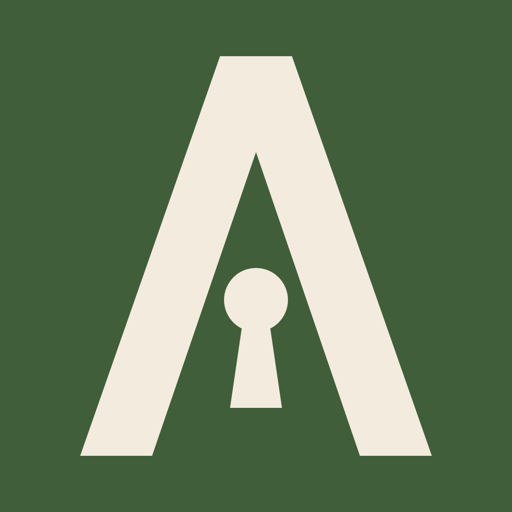
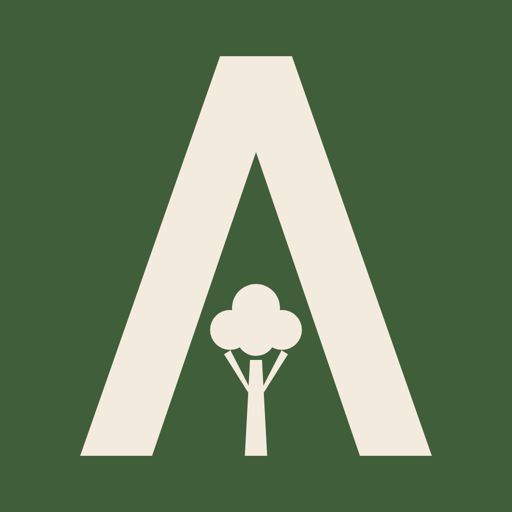
Troca a fechadura do Villa pelo plátano de Air-Bel
O A de VILLA, o monograma, o favicon e o naipe do Conhecimento passam a usar o plátano do jardim da Villa Air-Bel. O naipe Fechaduras vira Árvores. As peças do Global Village que usam o monograma foram renderizadas de novo.

Changed region(s): [[0.4062, 0.5, 0.5938, 0.9062]]

diff --git a/brand/newsletter/src/edicao.html b/brand/newsletter/src/edicao.html
@@ -28,7 +28,7 @@
 <body>
   <div class="page">
     <div class="top">
-      <span class="rotulo"><svg viewBox="-6 -6 100 112" aria-hidden="true"><polygon points="35,0 53,0 88,100 70,100 44,24 18,100 0,100"/><circle cx="44" cy="61" r="8"/><polygon points="41.0,64.2 47.0,64.2 50.5,88 37.5,88"/></svg>Global Village</span>
+      <span class="rotulo"><svg viewBox="-6 -6 100 112" aria-hidden="true"><polygon points="35,0 53,0 88,100 70,100 44,24 18,100 0,100"/><circle cx="44" cy="63" r="6"/><circle cx="37.5" cy="68.5" r="5"/><circle cx="50.5" cy="68.5" r="5"/><circle cx="44" cy="70" r="5"/><polygon points="42.5,76 45.5,76 46.8,100 41.2,100"/><polygon points="43.2,86 44.8,87.6 37.6,73.6 36,74.6"/><polygon points="44.8,86 43.2,87.6 50.4,73.6 52,74.6"/></svg>Global Village</span>
       <span class="carimbo" id="date"></span>
     </div>
     <h1 id="title"></h1>

diff --git a/brand/global-village/src/lockup.html b/brand/global-village/src/lockup.html
@@ -15,7 +15,7 @@
 </head>
 <body>
 <div class="lockup" id="l">
-  <svg viewBox="-6 -6 100 112" aria-hidden="true"><polygon points="35,0 53,0 88,100 70,100 44,24 18,100 0,100"/><circle cx="44" cy="61" r="8"/><polygon points="41.0,64.2 47.0,64.2 50.5,88 37.5,88"/></svg>
+  <svg viewBox="-6 -6 100 112" aria-hidden="true"><polygon points="35,0 53,0 88,100 70,100 44,24 18,100 0,100"/><circle cx="44" cy="63" r="6"/><circle cx="37.5" cy="68.5" r="5"/><circle cx="50.5" cy="68.5" r="5"/><circle cx="44" cy="70" r="5"/><polygon points="42.5,76 45.5,76 46.8,100 41.2,100"/><polygon points="43.2,86 44.8,87.6 37.6,73.6 36,74.6"/><polygon points="44.8,86 43.2,87.6 50.4,73.6 52,74.6"/></svg>
   <span class="name">Global Village</span>
 </div>
 <script>if (location.hash === "#light") document.getElementById("l").classList.add("light");</script>

diff --git a/brand/substack/src/secao.html b/brand/substack/src/secao.html
@@ -16,7 +16,7 @@
 </head>
 <body>
   <div class="page">
-    <svg viewBox="-6 -6 100 112" aria-hidden="true"><polygon points="35,0 53,0 88,100 70,100 44,24 18,100 0,100"/><circle cx="44" cy="61" r="8"/><polygon points="41.0,64.2 47.0,64.2 50.5,88 37.5,88"/></svg>
+    <svg viewBox="-6 -6 100 112" aria-hidden="true"><polygon points="35,0 53,0 88,100 70,100 44,24 18,100 0,100"/><circle cx="44" cy="63" r="6"/><circle cx="37.5" cy="68.5" r="5"/><circle cx="50.5" cy="68.5" r="5"/><circle cx="44" cy="70" r="5"/><polygon points="42.5,76 45.5,76 46.8,100 41.2,100"/><polygon points="43.2,86 44.8,87.6 37.6,73.6 36,74.6"/><polygon points="44.8,86 43.2,87.6 50.4,73.6 52,74.6"/></svg>
     <h1>Global Village</h1>
     <div class="label" id="label"></div>
   </div>
